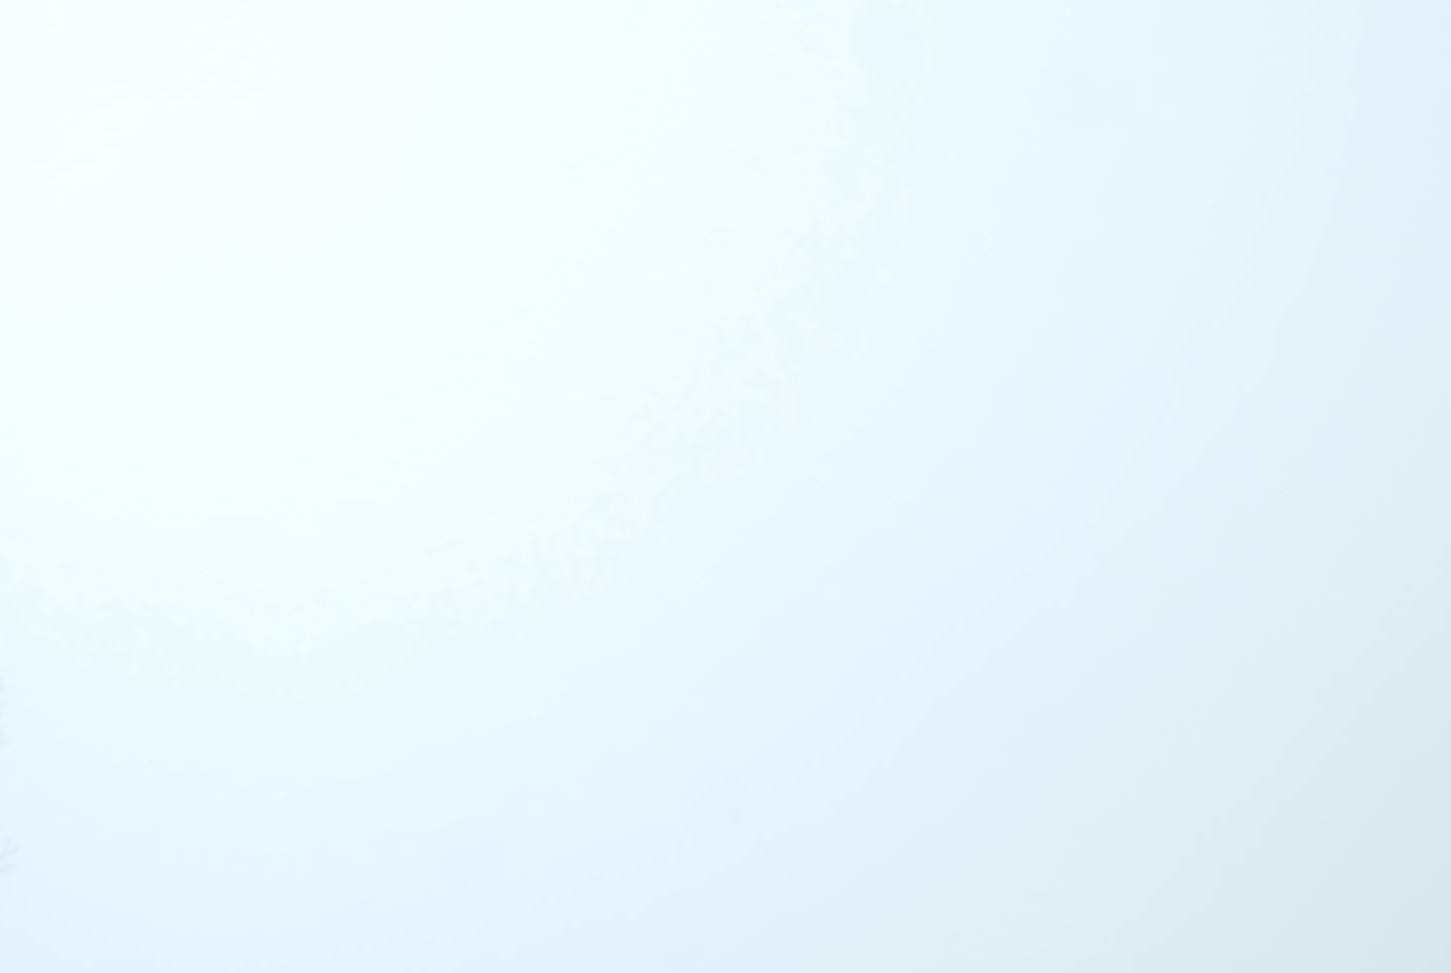
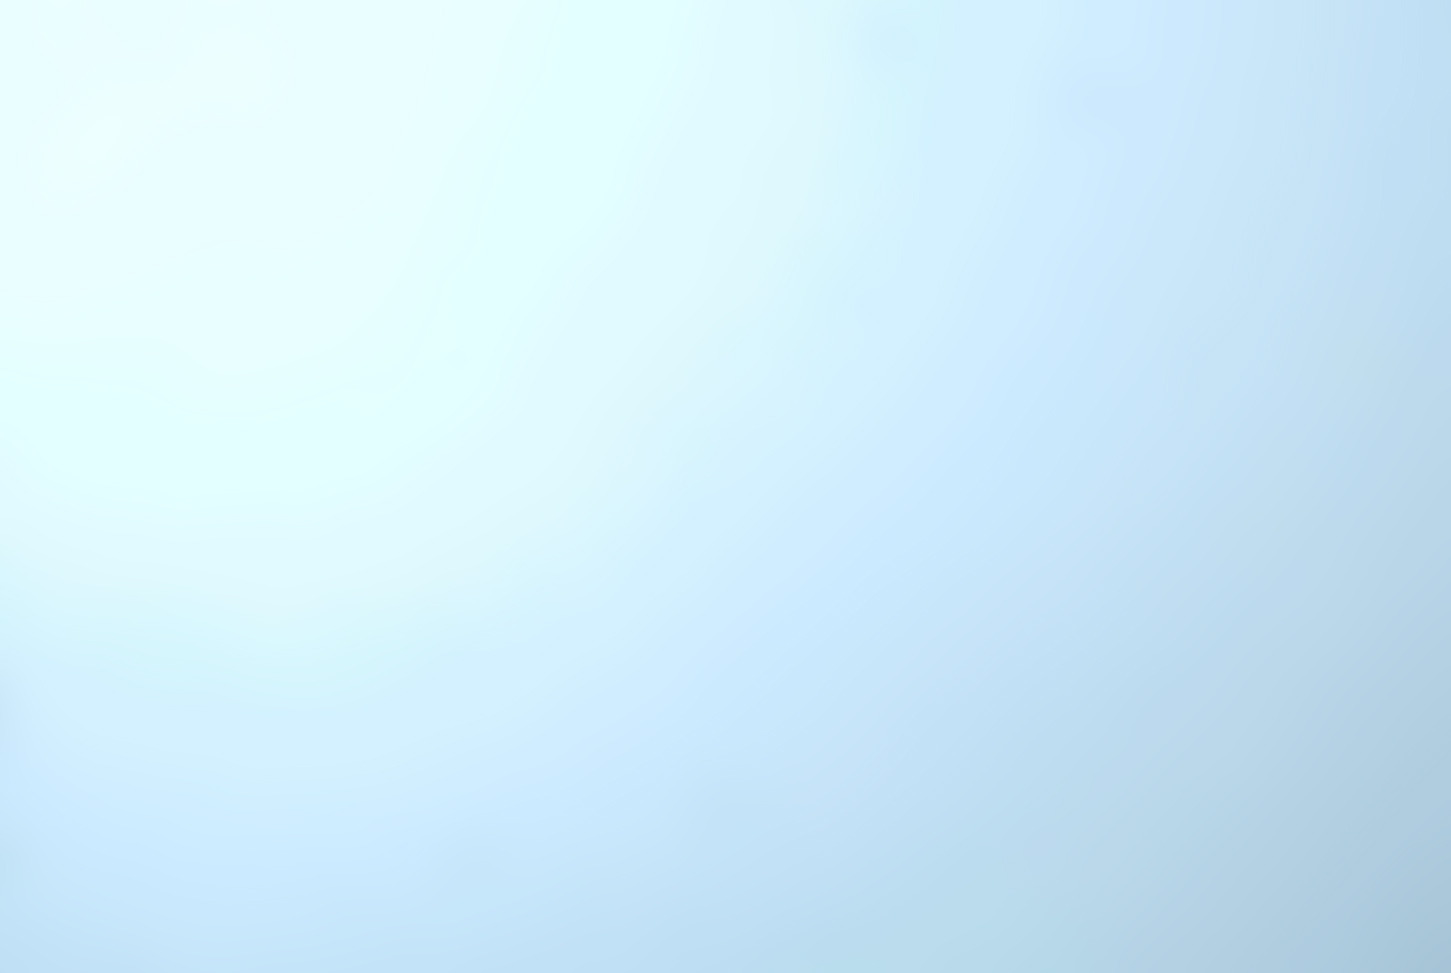
Background fix

diff --git a/main.js b/main.js
@@ -1,1 +1,1 @@
-(()=>{"use strict";const e=function(e,t){switch(!0){case 800===e&&"n"===t:return"0-mn";case 800===e:return"0-sn";case 801===e&&"n"===t:return"1-clw";case 801===e:return"1-cls";case 802===e:return"1-clw";case 803===e:case 804===e:return"1-cld";case 300===e:case 301===e:case 310===e:return"2-clr";case 302===e:case e>=311&&e<=314:case 321===e:case e>=520&&e<=522:case 531===e:return"2-clrr";case 500===e&&"n"===t:case 501===e&&"n"===t:return"2-clr";case 500===e:case 501===e:return"2-clrs";case e>=502&&e<=504&&"n"===t:return"2-clrr";case e>=502&&e<=504:return"2-clrrs";case e>=200&&e<=232:return"3-clt";case 511===e:case e>=600&&e<=622:return"4-cls";case e>=701&&e<=781:return"5-mst";default:return null}},t=function(){return{background:document.querySelector("html"),nowTitle:document.querySelector("#nowTitle"),temperatureMain:document.querySelector(".temperatureMain"),symbolMain:document.querySelector(".symbolMain"),nowDescription:document.querySelector("#nowText"),nowTempBar:document.querySelector(".nowTempBar"),searchInput:document.querySelector(".searchBox"),searchSymbol:document.querySelector(".searchSymbol"),bars:document.querySelectorAll(".bar"),symbolCard:document.querySelectorAll(".symbolCard"),colourZone:document.querySelectorAll(".colourZone"),tempZone:document.querySelectorAll(".tempZone"),infoZone:document.querySelectorAll(".infoZone"),windDir:document.querySelectorAll(".windDir"),windVal:document.querySelectorAll(".windVal"),rainVal:document.querySelectorAll(".rainVal"),date:document.querySelectorAll(".date")}},r=function(e){const t=[{temp:40,hex:"7f0000"},{temp:39,hex:"930000"},{temp:38,hex:"a80000"},{temp:37,hex:"bc0000"},{temp:36,hex:"d10000"},{temp:35,hex:"e50000"},{temp:34,hex:"e6100b"},{temp:33,hex:"e72016"},{temp:32,hex:"e93022"},{temp:31,hex:"ea402d"},{temp:30,hex:"eb5038"},{temp:29,hex:"ec5536"},{temp:28,hex:"ee5a35"},{temp:27,hex:"ef6033"},{temp:26,hex:"f16532"},{temp:25,hex:"f26a30"},{temp:24,hex:"f3702d"},{temp:23,hex:"f47729"},{temp:22,hex:"f47d26"},{temp:21,hex:"f58422"},{temp:20,hex:"f68a1f"},{temp:19,hex:"f7931d"},{temp:18,hex:"f89c1b"},{temp:17,hex:"f9a41a"},{temp:16,hex:"faad18"},{temp:15,hex:"fbb616"},{temp:14,hex:"f2bd1e"},{temp:13,hex:"eac326"},{temp:12,hex:"e1ca2e"},{temp:11,hex:"d9d036"},{temp:10,hex:"d0d73e"},{temp:9,hex:"c6d54b"},{temp:8,hex:"bcd358"},{temp:7,hex:"b3d166"},{temp:6,hex:"a9cf73"},{temp:5,hex:"9fcd80"},{temp:4,hex:"8fca96"},{temp:3,hex:"80c7ac"},{temp:2,hex:"70c5c1"},{temp:1,hex:"61c2d7"},{temp:0,hex:"51bfed"},{temp:-1,hex:"4dbaea"},{temp:-2,hex:"49b6e6"},{temp:-3,hex:"45b1e3"},{temp:-4,hex:"41acdf"},{temp:-5,hex:"3da8dc"},{temp:-6,hex:"39a3d9"},{temp:-7,hex:"359ed5"},{temp:-8,hex:"319ad2"},{temp:-9,hex:"2d95ce"},{temp:-10,hex:"2a91cb"},{temp:-11,hex:"268cc8"},{temp:-12,hex:"2287c4"},{temp:-13,hex:"1e83c1"},{temp:-14,hex:"1a7ebd"},{temp:-15,hex:"1679ba"},{temp:-16,hex:"1275b7"},{temp:-17,hex:"0e70b3"},{temp:-18,hex:"0a6bb0"},{temp:-19,hex:"0667ac"},{temp:-20,hex:"0262a9"}];for(let r=0;r<t.length;r++){if(e===t[r].temp)return t[r].hex;if(e>40)return t[0].hex;if(e<-20)return t[60].hex}return null},a=function(e){const t=new Date(e),r=["Sun","Mon","Tue","Wed","Thu","Fri","Sat"][t.getDay()],a=t.getDate();let n;switch(!0){case 1===a:case 21===a:case 31===a:n="st";break;case 2===a:case 22===a:n="nd";break;case 3===a:case 23===a:n="rd";break;default:n="th"}return`${r} ${a}${n}`},n=function(e){switch(!0){case e<15:case e>=345:return"06_S";case e>=15&&e<45:return"07_SSW";case e>=45&&e<75:return"08_SWW";case e>=75&&e<105:return"09_W";case e>=105&&e<135:return"10_NWW";case e>=135&&e<165:return"11_NNW";case e>=165&&e<195:return"00_N";case e>=195&&e<225:return"01_NNE";case e>=225&&e<255:return"02_NEE";case e>=255&&e<285:return"03_E";case e>=285&&e<315:return"04_SEE";case e>=315&&e<345:return"05_SSE"}},s=function(e,t){switch(!0){case"n"===t:return"00_night";case e>=800&&e<=801:return"01_sun";case e>=200&&e<=232:case 804===e:return"02_thick-cloud";case e>=300&&e<=321:case e>=502&&e<=531:return"03_rain";case 500===e:case 501===e:case 802===e:case 803===e:return"04_half-cloud";case e>=600&&e<=622:case e>=701&&e<=781:return"05_white";default:return"01_sun"}};function c(e){e||(e="London"),fetch(`http://api.openweathermap.org/data/2.5/forecast?q=${e}&appid=d096eb4766151c74dfd165b926c9914b&units=metric`,{mode:"cors"}).then((function(e){return e.json()})).then((function(e){o.handleData(e)})).catch((function(e){console.log("Error"),t().searchInput.setAttribute("placeholder","Not a valid locaton."),console.error(e)}))}({initialise(){console.log(t().searchInput),t().searchSymbol.addEventListener("click",(()=>{this.search()})),t().searchInput.addEventListener("keypress",(e=>{"Enter"===e.key&&this.search()}))},search(){t().searchInput.value?(o.clearData(),c(t().searchInput.value),t().searchInput.setAttribute("placeholder","Enter a town or city name..."),t().searchInput.value="",t().searchInput.blur()):t().searchInput.blur()}}).initialise(),c();const o={daysArray:[],handleData(c){console.log(c);for(let e=0;e<c.list.length;e++)"12:00:00"!==c.list[e].dt_txt.split(" ")[1]&&0!==e||this.daysArray.push(this.makeNewDayObj(e,c));5===this.daysArray.length&&this.daysArray.push(this.makeNewDayObj(c.list.length-1,c)),console.log(this.daysArray),function(){let a=o.daysArray[0].temperature;t().temperatureMain.textContent=`${Math.round(a)}º`;let n=e(o.daysArray[0].weatherCode,o.daysArray[0].dayNight);t().symbolMain.src=`symbols/${n}.svg`;let s=function(e){let t,r=[];return r.push(`${e.description.charAt(0).toUpperCase()}${e.description.slice(1)} and ${function(e){let t=Math.round(2.237*e);switch(!0){case t<8:return"light winds";case t>7&&t<13:return"a gentle breeze";case t>12&&t<19:return"a moderate breeze";case t>18&&t<24:return"a fresh breeze";case t>23:return"strong winds";default:return""}}(e.windSpeed)}.`),r.push(`Chance of rain: ${Math.round(100*e.probOfPrecip)}%`),r.push(`Humidity: ${Math.round(e.humidity)}%`),t=r[0]+"\r\n"+r[1]+"\r\n"+r[2],t}(o.daysArray[0]);t().nowDescription.textContent=s;let c=r(Math.round(o.daysArray[0].temperature));t().nowTempBar.setAttribute("style",`background-color: #${c}`),t().nowTitle.textContent=`Current weather for ${o.daysArray[0].location}...`}(),function(){for(let r=0;r<5;r++){let s=e(o.daysArray[r+1].weatherCode,o.daysArray[r+1].dayNight);t().symbolCard[r].src=`symbols/${s}.svg`,u(),t().date[r].textContent=a(o.daysArray[r+1].date);let c=n(o.daysArray[r+1].windDeg);t().windDir[r].src=`wind/${c}.svg`,t().windVal[r].textContent=Math.round(2.237*o.daysArray[r+1].windSpeed),t().rainVal[r].textContent=`${Math.round(100*o.daysArray[r+1].probOfPrecip)}%`}}(),console.log("background:",s(o.daysArray[0].weatherCode,o.daysArray[0].dayNight)),s(o.daysArray[0].weatherCode,o.daysArray[0].dayNight),"n"===o.daysArray[0].dayNight?(t().background.classList.add("night"),document.querySelector(".nowContainer").classList.add("lightContainer"),document.querySelector(".forecastContainer").classList.add("lightContainer"),document.querySelector(".searchContainer").classList.add("lightContainer")):(t().background.classList.remove("night"),document.querySelector(".nowContainer").classList.remove("lightContainer"),document.querySelector(".forecastContainer").classList.remove("lightContainer"),document.querySelector(".searchContainer").classList.remove("lightContainer"))},makeNewDayObj:(e,t)=>new i(t.city.name,t.list[e].dt_txt.split(" ")[1],t.list[e].dt_txt.split(" ")[0],t.list[e].main.temp,t.list[e].weather[0].id,t.list[e].pop,t.list[e].main.humidity,t.list[e].wind.speed,t.list[e].wind.deg,t.list[e].sys.pod,t.list[e].weather[0].description),clearData(){this.daysArray=[]}};class i{constructor(e,t,r,a,n,s,c,o,i,u,l){this.location=e,this.time=t,this.date=r,this.temperature=a,this.weatherCode=n,this.probOfPrecip=s,this.humidity=c,this.windSpeed=o,this.windDeg=i,this.dayNight=u,this.description=l}}function u(){let e=function(e){let t=[],r=[];for(let r=1;r<e.daysArray.length;r++)t.push(e.daysArray[r].temperature);let a=Math.min(...t),n=Math.max(...t),s=125/(n-a);s>40&&(s=40);let c=143-((n*s-a*s+80-80)/2+80);for(let t=1;t<e.daysArray.length;t++){let n=80;n+=Math.round(e.daysArray[t].temperature*s-a*s)+c,r.push(n)}return r}(o);for(let e=0;e<5;e++)t().bars[e].setAttribute("style","height: 80px"),t().colourZone[e].setAttribute("style","background-color: rgba(255, 255, 255, 0.3)");setTimeout((()=>{for(let a=0;a<5;a++)setTimeout((()=>{t().bars[a].setAttribute("style",`height: ${e[a]}px`),t().tempZone[a].textContent=`${Math.round(o.daysArray[a+1].temperature)}º`;let n=r(Math.round(o.daysArray[a+1].temperature));t().colourZone[a].setAttribute("style",`background-color: #${n}`)}),100*(a+1))}),500)}})();
+(()=>{"use strict";const e=function(e,t){switch(!0){case 800===e&&"n"===t:return"0-mn";case 800===e:return"0-sn";case 801===e&&"n"===t:return"1-clw";case 801===e:return"1-cls";case 802===e:return"1-clw";case 803===e:case 804===e:return"1-cld";case 300===e:case 301===e:case 310===e:return"2-clr";case 302===e:case e>=311&&e<=314:case 321===e:case e>=520&&e<=522:case 531===e:return"2-clrr";case 500===e&&"n"===t:case 501===e&&"n"===t:return"2-clr";case 500===e:case 501===e:return"2-clrs";case e>=502&&e<=504&&"n"===t:return"2-clrr";case e>=502&&e<=504:return"2-clrrs";case e>=200&&e<=232:return"3-clt";case 511===e:case e>=600&&e<=622:return"4-cls";case e>=701&&e<=781:return"5-mst";default:return null}},t=function(){return{background:document.querySelector("html"),nowTitle:document.querySelector("#nowTitle"),temperatureMain:document.querySelector(".temperatureMain"),symbolMain:document.querySelector(".symbolMain"),nowDescription:document.querySelector("#nowText"),nowTempBar:document.querySelector(".nowTempBar"),searchInput:document.querySelector(".searchBox"),searchSymbol:document.querySelector(".searchSymbol"),bars:document.querySelectorAll(".bar"),symbolCard:document.querySelectorAll(".symbolCard"),colourZone:document.querySelectorAll(".colourZone"),tempZone:document.querySelectorAll(".tempZone"),infoZone:document.querySelectorAll(".infoZone"),windDir:document.querySelectorAll(".windDir"),windVal:document.querySelectorAll(".windVal"),rainVal:document.querySelectorAll(".rainVal"),date:document.querySelectorAll(".date"),backgroundMain:document.querySelector("html"),containers:document.querySelectorAll(".screen")}},r=function(e){const t=[{temp:40,hex:"7f0000"},{temp:39,hex:"930000"},{temp:38,hex:"a80000"},{temp:37,hex:"bc0000"},{temp:36,hex:"d10000"},{temp:35,hex:"e50000"},{temp:34,hex:"e6100b"},{temp:33,hex:"e72016"},{temp:32,hex:"e93022"},{temp:31,hex:"ea402d"},{temp:30,hex:"eb5038"},{temp:29,hex:"ec5536"},{temp:28,hex:"ee5a35"},{temp:27,hex:"ef6033"},{temp:26,hex:"f16532"},{temp:25,hex:"f26a30"},{temp:24,hex:"f3702d"},{temp:23,hex:"f47729"},{temp:22,hex:"f47d26"},{temp:21,hex:"f58422"},{temp:20,hex:"f68a1f"},{temp:19,hex:"f7931d"},{temp:18,hex:"f89c1b"},{temp:17,hex:"f9a41a"},{temp:16,hex:"faad18"},{temp:15,hex:"fbb616"},{temp:14,hex:"f2bd1e"},{temp:13,hex:"eac326"},{temp:12,hex:"e1ca2e"},{temp:11,hex:"d9d036"},{temp:10,hex:"d0d73e"},{temp:9,hex:"c6d54b"},{temp:8,hex:"bcd358"},{temp:7,hex:"b3d166"},{temp:6,hex:"a9cf73"},{temp:5,hex:"9fcd80"},{temp:4,hex:"8fca96"},{temp:3,hex:"80c7ac"},{temp:2,hex:"70c5c1"},{temp:1,hex:"61c2d7"},{temp:0,hex:"51bfed"},{temp:-1,hex:"4dbaea"},{temp:-2,hex:"49b6e6"},{temp:-3,hex:"45b1e3"},{temp:-4,hex:"41acdf"},{temp:-5,hex:"3da8dc"},{temp:-6,hex:"39a3d9"},{temp:-7,hex:"359ed5"},{temp:-8,hex:"319ad2"},{temp:-9,hex:"2d95ce"},{temp:-10,hex:"2a91cb"},{temp:-11,hex:"268cc8"},{temp:-12,hex:"2287c4"},{temp:-13,hex:"1e83c1"},{temp:-14,hex:"1a7ebd"},{temp:-15,hex:"1679ba"},{temp:-16,hex:"1275b7"},{temp:-17,hex:"0e70b3"},{temp:-18,hex:"0a6bb0"},{temp:-19,hex:"0667ac"},{temp:-20,hex:"0262a9"}];for(let r=0;r<t.length;r++){if(e===t[r].temp)return t[r].hex;if(e>40)return t[0].hex;if(e<-20)return t[60].hex}return null},a=function(e){const t=new Date(e),r=["Sun","Mon","Tue","Wed","Thu","Fri","Sat"][t.getDay()],a=t.getDate();let n;switch(!0){case 1===a:case 21===a:case 31===a:n="st";break;case 2===a:case 22===a:n="nd";break;case 3===a:case 23===a:n="rd";break;default:n="th"}return`${r} ${a}${n}`},n=function(e){switch(!0){case e<15:case e>=345:return"06_S";case e>=15&&e<45:return"07_SSW";case e>=45&&e<75:return"08_SWW";case e>=75&&e<105:return"09_W";case e>=105&&e<135:return"10_NWW";case e>=135&&e<165:return"11_NNW";case e>=165&&e<195:return"00_N";case e>=195&&e<225:return"01_NNE";case e>=225&&e<255:return"02_NEE";case e>=255&&e<285:return"03_E";case e>=285&&e<315:return"04_SEE";case e>=315&&e<345:return"05_SSE"}},s=function(e){const t=(r=e.city.timezone/3600,3*Math.round(r/3));var r;const a=[];for(let r=0;r<e.list.length;r++){let n=e.list[r].dt_txt.split(" ")[1];n.split(":")[0];let s=Number(n.split(":")[0])+t;s>=24&&(s-=24),s<0&&(s+=24),a.push(s)}return a};function c(e){e||(e="London"),fetch(`http://api.openweathermap.org/data/2.5/forecast?q=${e}&appid=d096eb4766151c74dfd165b926c9914b&units=metric`,{mode:"cors"}).then((function(e){return e.json()})).then((function(e){o.handleData(e)})).catch((function(e){t().searchInput.setAttribute("placeholder","Not a valid locaton."),console.error(e)}))}({initialise(){t().searchSymbol.addEventListener("click",(()=>{this.search()})),t().searchInput.addEventListener("keypress",(e=>{"Enter"===e.key&&this.search()}))},search(){t().searchInput.value?(o.clearData(),c(t().searchInput.value),t().searchInput.setAttribute("placeholder","Enter a town or city name..."),t().searchInput.value="",t().searchInput.blur()):t().searchInput.blur()}}).initialise(),c();const o={daysArray:[],handleData(c){for(let e=0;e<c.list.length;e++)12!==s(c)[e]&&0!==e||this.daysArray.push(this.makeNewDayObj(e,c));5===this.daysArray.length&&this.daysArray.push(this.makeNewDayObj(c.list.length-1,c)),function(){let a=o.daysArray[0].temperature;t().temperatureMain.textContent=`${Math.round(a)}º`;let n=e(o.daysArray[0].weatherCode,o.daysArray[0].dayNight);t().symbolMain.src=`symbols/${n}.svg`;let s=function(e){let t,r=[];return r.push(`${e.description.charAt(0).toUpperCase()}${e.description.slice(1)} and ${function(e){let t=Math.round(2.237*e);switch(!0){case t<8:return"light winds";case t>7&&t<13:return"a gentle breeze";case t>12&&t<19:return"a moderate breeze";case t>18&&t<24:return"a fresh breeze";case t>23:return"strong winds";default:return""}}(e.windSpeed)}.`),r.push(`Chance of rain: ${Math.round(100*e.probOfPrecip)}%`),r.push(`Humidity: ${Math.round(e.humidity)}%`),t=r[0]+"\r\n"+r[1]+"\r\n"+r[2],t}(o.daysArray[0]);t().nowDescription.textContent=s;let c=r(Math.round(o.daysArray[0].temperature));t().nowTempBar.setAttribute("style",`background-color: #${c}`),t().nowTitle.textContent=`Current weather for ${o.daysArray[0].location}...`}(),function(){for(let e=0;e<5;e++){i(),t().date[e].textContent=a(o.daysArray[e+1].date);let r=n(o.daysArray[e+1].windDeg);t().windDir[e].src=`wind/${r}.svg`,t().windVal[e].textContent=Math.round(2.237*o.daysArray[e+1].windSpeed),t().rainVal[e].textContent=`${Math.round(100*o.daysArray[e+1].probOfPrecip)}%`}}(),function(){let e=function(e,t){switch(!0){case"n"===t:return"night";case e>=800&&e<=801:return"day";case e>=200&&e<=232:case 804===e:return"thickCloud";case e>=300&&e<=321:case e>=502&&e<=531:return"rain";case 500===e:case 501===e:case 802===e:case 803===e:return"halfCloud";case e>=600&&e<=622:case e>=701&&e<=781:return"white";default:return"day"}}(o.daysArray[0].weatherCode,o.daysArray[0].dayNight);t().backgroundMain.className="",t().backgroundMain.classList.add(`${e}`);for(let r=0;r<t().containers.length;r++)"night"===e?t().containers[r].classList.add("lightContainer"):t().containers[r].classList.remove("lightContainer")}()},makeNewDayObj:(e,t)=>new u(t.city.name,t.list[e].dt_txt.split(" ")[1],t.list[e].dt_txt.split(" ")[0],t.list[e].main.temp,t.list[e].weather[0].id,t.list[e].pop,t.list[e].main.humidity,t.list[e].wind.speed,t.list[e].wind.deg,t.list[e].sys.pod,t.list[e].weather[0].description),clearData(){this.daysArray=[]}};class u{constructor(e,t,r,a,n,s,c,o,u,i,l){this.location=e,this.time=t,this.date=r,this.temperature=a,this.weatherCode=n,this.probOfPrecip=s,this.humidity=c,this.windSpeed=o,this.windDeg=u,this.dayNight=i,this.description=l}}function i(){let a=function(e){let t=[],r=[];for(let r=1;r<e.daysArray.length;r++)t.push(e.daysArray[r].temperature);let a=Math.min(...t),n=Math.max(...t),s=125/(n-a);s>40&&(s=40);let c=143-((n*s-a*s+80-80)/2+80);for(let t=1;t<e.daysArray.length;t++){let n=80;n+=Math.round(e.daysArray[t].temperature*s-a*s)+c,r.push(n)}return r}(o);for(let e=0;e<5;e++)t().symbolCard[e].src="symbols/00-dot.svg",t().bars[e].setAttribute("style","height: 80px"),t().colourZone[e].setAttribute("style","background-color: rgba(255, 255, 255, 0.3)");setTimeout((()=>{for(let n=0;n<5;n++)setTimeout((()=>{let s=e(o.daysArray[n+1].weatherCode,o.daysArray[n+1].dayNight);t().symbolCard[n].src=`symbols/${s}.svg`,t().bars[n].setAttribute("style",`height: ${a[n]}px`),t().tempZone[n].textContent=`${Math.round(o.daysArray[n+1].temperature)}º`;let c=r(Math.round(o.daysArray[n+1].temperature));t().colourZone[n].setAttribute("style",`background-color: #${c}`)}),100*(n+1))}),500)}})();

diff --git a/styles.css b/styles.css
@@ -1,3 +1,7 @@
+html {
+  transition: background 1s ease-in-out;
+}
+
 .day {
   background: url(/dist/imgs/01_sun.jpg) no-repeat center center fixed;
   -webkit-background-size: cover;
@@ -8,6 +12,38 @@
 
 .night {
   background: url(/dist/imgs/00_night.jpg) no-repeat center center fixed;
+  -webkit-background-size: cover;
+  -moz-background-size: cover;
+  -o-background-size: cover;
+  background-size: cover;
+}
+
+.thickCloud {
+  background: url(/dist/imgs/02_thick-cloud.jpg) no-repeat center center fixed;
+  -webkit-background-size: cover;
+  -moz-background-size: cover;
+  -o-background-size: cover;
+  background-size: cover;
+}
+
+.rain {
+  background: url(/dist/imgs/03_rain.jpg) no-repeat center center fixed;
+  -webkit-background-size: cover;
+  -moz-background-size: cover;
+  -o-background-size: cover;
+  background-size: cover;
+}
+
+.halfCloud {
+  background: url(/dist/imgs/04_half-cloud.jpg) no-repeat center center fixed;
+  -webkit-background-size: cover;
+  -moz-background-size: cover;
+  -o-background-size: cover;
+  background-size: cover;
+}
+
+.white {
+  background: url(/dist/imgs/05_white.jpg) no-repeat center center fixed;
   -webkit-background-size: cover;
   -moz-background-size: cover;
   -o-background-size: cover;
@@ -36,6 +72,7 @@ body {
   background-color: rgba(0, 0, 0, 0.3);
   width: 300px;
   height: 350px;
+  transition: background-color 0.3s ease-in-out;
 }
 
 .forecastContainer {
@@ -43,6 +80,7 @@ body {
   width: 700px;
   height: 350px;
   margin-left: 10px;
+  transition: background-color 0.3s ease-in-out;
 }
 
 .searchContainer {
@@ -51,6 +89,7 @@ body {
   width: 300px;
   height: 50px;
   margin-top: 10px;
+  transition: background-color 0.3s ease-in-out;
 }
 
 .lightContainer {
@@ -238,7 +277,7 @@ body {
     width: 300px;
     height: 350px; */
     margin: 10px auto 0 auto;
-    width: 95%;
+    width: 90%;
     /* height: 80vh; */
     order: 2;
   }
@@ -249,8 +288,8 @@ body {
     height: 350px;
     margin-left: 10px; */
     height: 400px;
-    margin: 10px auto 0 auto;
-    width: 95%;
+    margin: 10px auto 20px auto;
+    width: 90%;
     order: 3;
   }
 
@@ -270,7 +309,7 @@ body {
     height: 50px;
     margin-top: 10px; */
     margin: 10px auto 0 auto;
-    width: 95%;
+    width: 90%;
     order: 1;
   }
 

diff --git a/index.html b/index.html
@@ -1,5 +1,5 @@
 <!DOCTYPE html>
-<html lang="en" class="day">
+<html lang="en">
   <head>
     <meta charset="UTF-8" />
     <meta http-equiv="X-UA-Compatible" content="IE=edge" />
@@ -9,7 +9,7 @@
   </head>
   <body>
     <div class="mainContainer">
-      <div class="nowContainer">
+      <div class="nowContainer screen">
         <div class="boxTitle" id="nowTitle">Current weather for London...</div>
         <div class="temperatureMain"></div>
         <img class="symbolMain" src="" />
@@ -17,7 +17,7 @@
         <div class="nowTempBar"></div>
       </div>
 
-      <div class="forecastContainer">
+      <div class="forecastContainer screen">
         <div class="boxTitle">Next 5 days...</div>
         <div class="forcastInner">
           <!-- DAY 1 -->
@@ -99,7 +99,7 @@
         </div>
       </div>
 
-      <div class="searchContainer">
+      <div class="searchContainer screen">
         <input
           class="searchBox"
           type="text"
